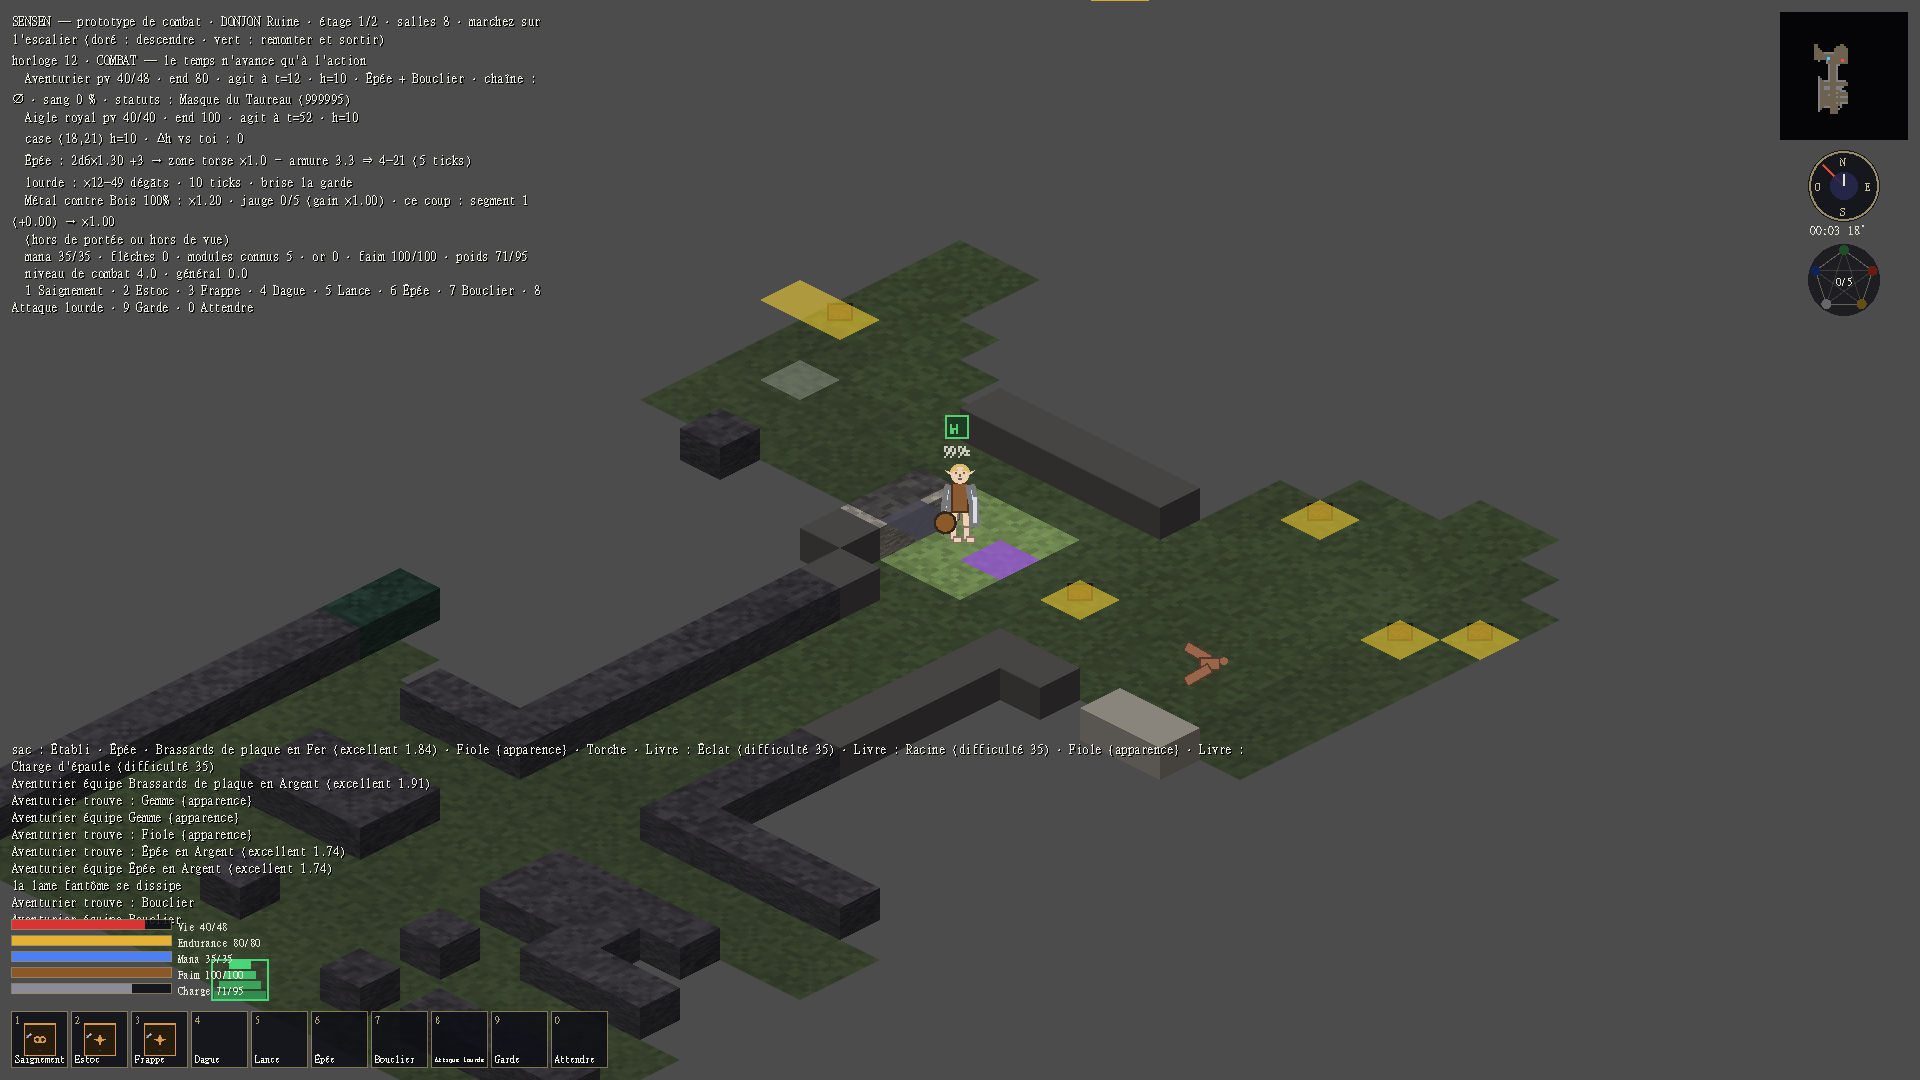
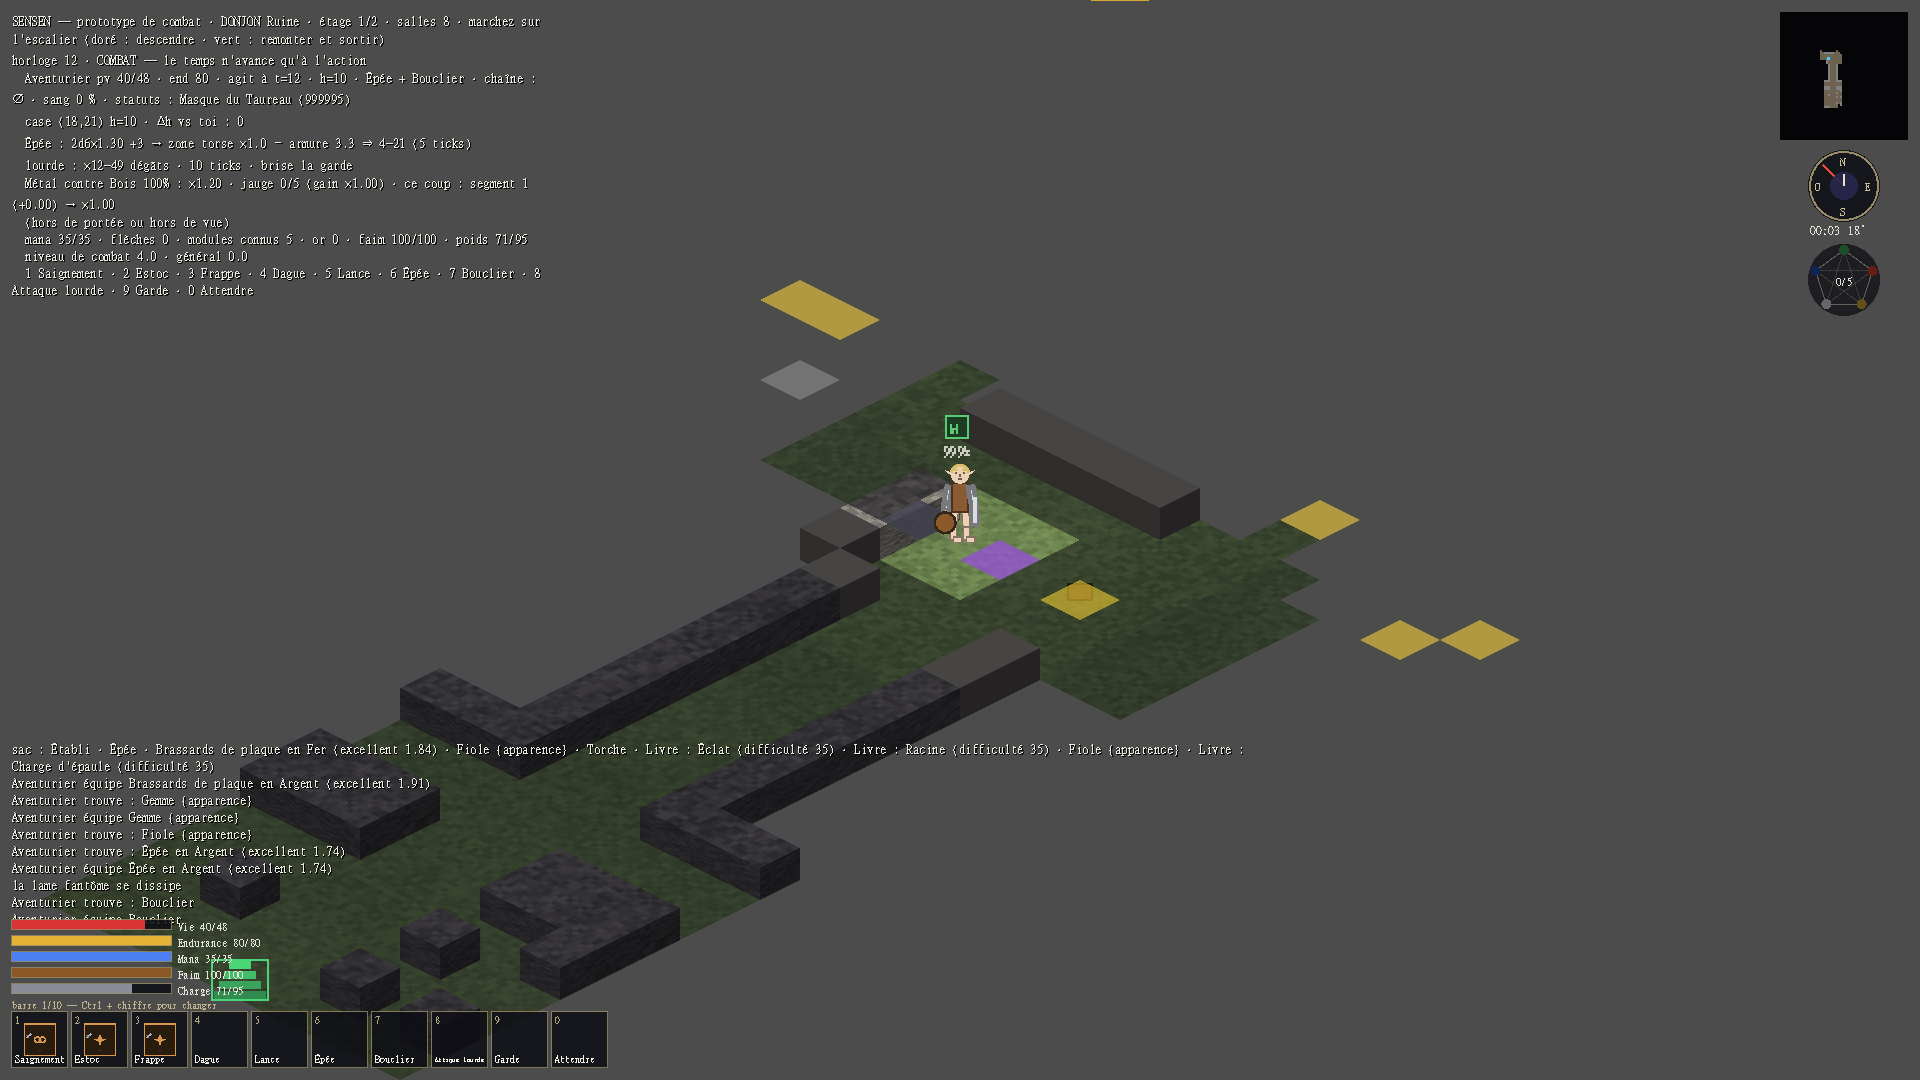
Dix pages de hotbar, Ctrl + chiffre pour changer
Dix cases suffisaient tant qu'un personnage avait trois sorts et deux
armes ; avec les modules sans plafond, elles debordent. Le personnage
porte dix pages : Ctrl + 1 a Ctrl + 0 passe de l'une a l'autre, et la
page courante s'ecrit au-dessus de la barre.

La page active reste dans j.hotbar — tout le code qui la lit est
inchange — et les autres attendent dans j.hotbar_pages. Une page jamais
touchee retombe sur la hotbar DERIVEE (capacites, ratelier, objets),
donc elle n'est jamais vide. Le loadout de classe reste la page 1.

diff --git a/docs/08 - Technique/Écrans d'interface.md b/docs/08 - Technique/Écrans d'interface.md
@@ -174,6 +174,10 @@ Inventaire+équipement (avec poids), Craft (recettes des stations à portée, [[
 > L'ordre s'inverse : **les capacités d'abord** — elles sont l'identité du personnage et doivent rester sous les mêmes touches toute la partie —, puis le râtelier, puis les objets. Une arme ramassée se pose donc **à la suite**, sans rien déplacer. Les affectations manuelles du joueur (point 35) continuent de recouvrir la hotbar dérivée, case par case.
 
 
+> [!success] Codé le 2026-09-02 — dix hotbars, `Ctrl` + chiffre pour changer (designer)
+> Dix cases suffisaient tant qu'un personnage n'avait que trois sorts et deux armes ; avec les modules sans plafond, elles débordent. Le personnage porte désormais **dix pages** de dix cases : `Ctrl + 1` à `Ctrl + 0` passe de l'une à l'autre, la page courante est écrite au-dessus de la barre. Chaque page se remplit comme avant, en glissant une capacité ou une arme depuis l'inventaire (point 35) ; les pages jamais touchées retombent sur la hotbar **dérivée** — capacités, puis râtelier, puis objets —, si bien qu'une page neuve n'est jamais vide. Le loadout de classe reste la page 1.
+
+
 ## Liens
 - **Dépend de** : [[Direction artistique]], [[Localisation]]
 - **Alimente** : [[Combat tactique sur grille]], [[Craft compositionnel]], [[Habitat des PNJ]], [[Entretien et taxes]]
